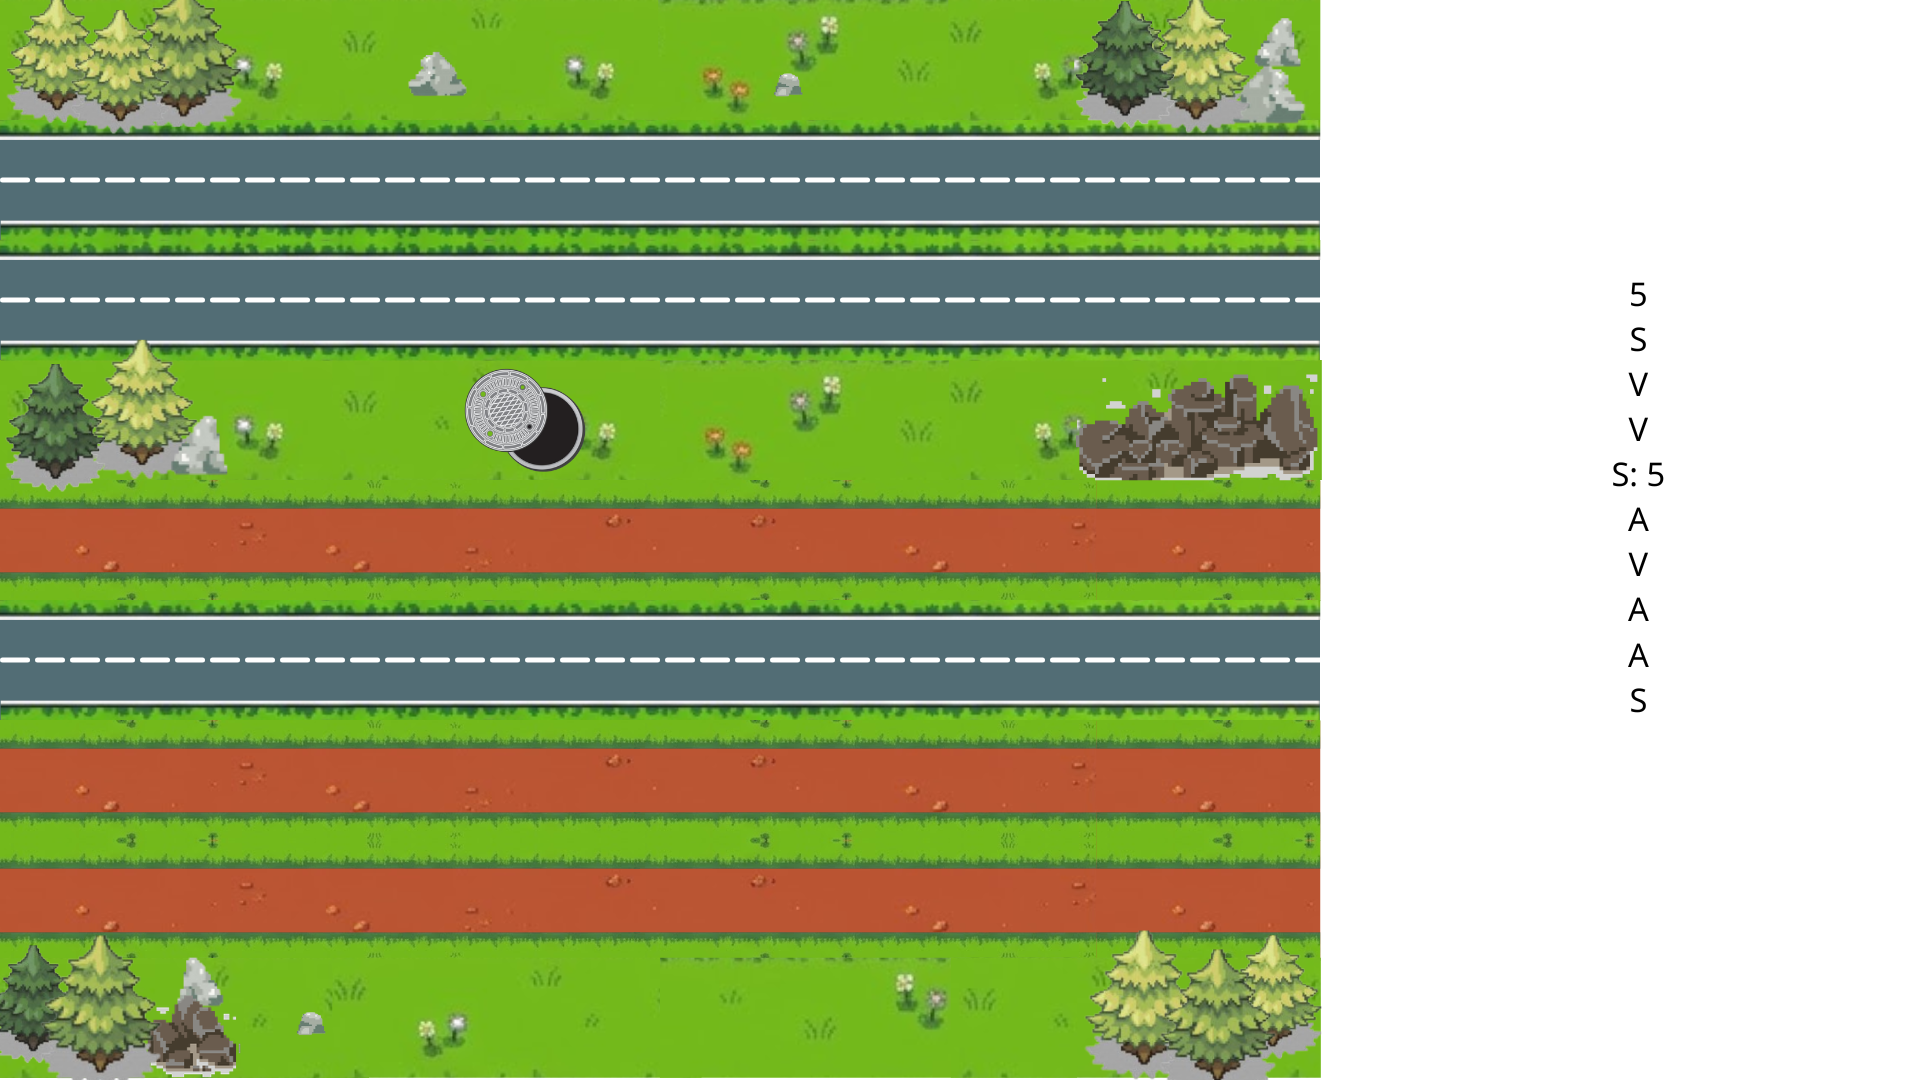
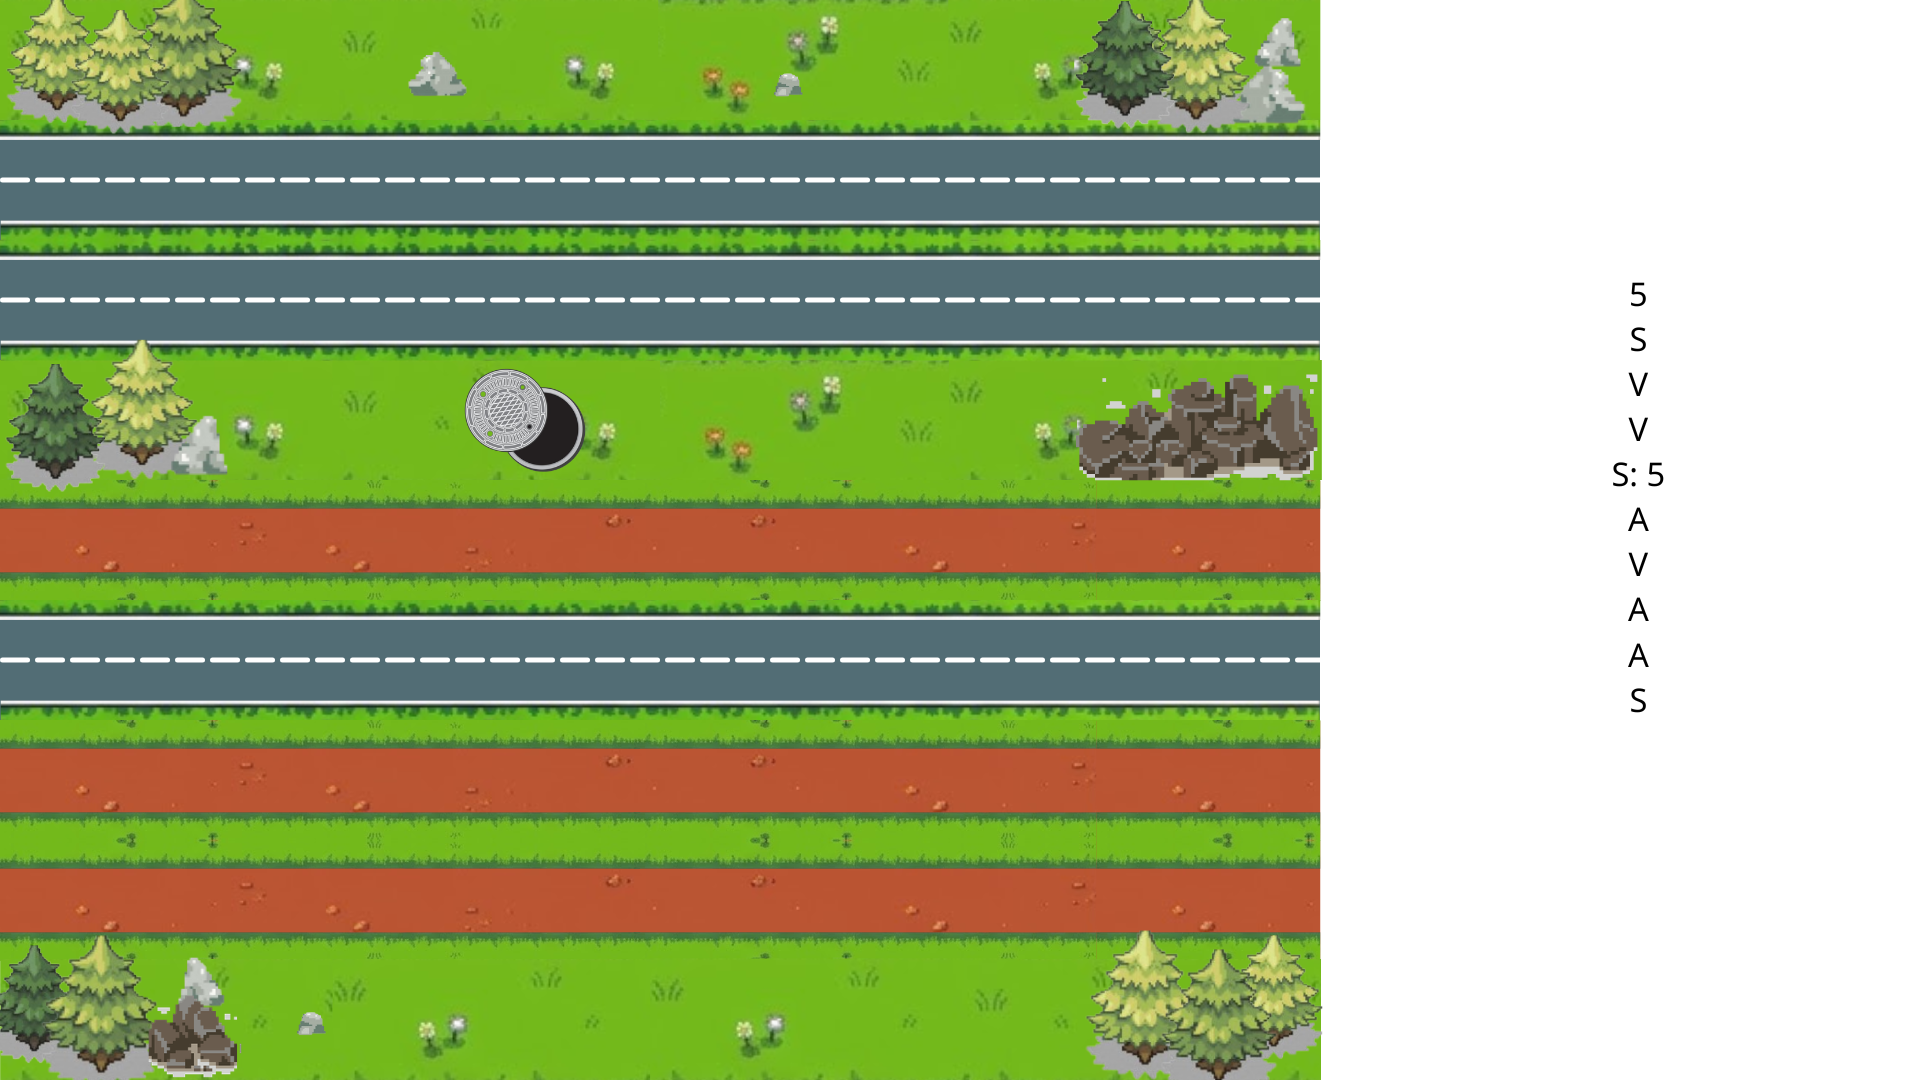
Modified Map and Generated 1-15 Map

diff --git a/game_crossing/src/EndlessMap.cpp b/game_crossing/src/EndlessMap.cpp
@@ -163,17 +163,36 @@ void EndlessMap::spawnBlockAbove()
     block.startY = m_nextEndY - m_blockHeight;
     block.lanes.fill(LaneType::Safe);
     block.manholeCols.fill(-1);
+
+    // --- ĐOẠN CODE CHỌN MAP NGẪU NHIÊN MỚI ---
+    // Khai báo danh sách 15 map dưới dạng chuỗi ký tự (bao gồm cả các map x.1)
+    static const std::vector<std::string> availableMaps = {
+        "1", "2", "3", "4", "5",
+        "6", "6.1", "7", "7.1", "8",
+        "8.1", "9", "9.1", "10", "10.1"
+    };
+
+    // Khởi tạo bộ sinh số ngẫu nhiên
     std::random_device rd;
     std::mt19937 localRng(rd());
-    const int randomMap = m_availableMapLevels.empty()
-        ? std::uniform_int_distribution<int>(1, 10)(localRng)
-        : m_availableMapLevels[std::uniform_int_distribution<std::size_t>(
-            0, m_availableMapLevels.size() - 1)(localRng)];
-    block.mapImageKey = "map_level_" + std::to_string(randomMap);
 
-    if (!loadMapFromFile(randomMap, block.lanes, block.manholeCols)) {
+    // Chọn ngẫu nhiên 1 index từ 0 đến 14 (tương ứng với 15 map)
+    std::uniform_int_distribution<std::size_t> dist(0, availableMaps.size() - 1);
+    std::string chosenMap = availableMaps[dist(localRng)];
+
+    // Gán tên file ảnh để hệ thống đồ họa vẽ đúng (ví dụ: map_level_6.1)
+    block.mapImageKey = "map_level_" + chosenMap;
+
+    // Tải cấu hình làn đường (Xe/Động vật/An toàn) và nắp cống từ file txt tương ứng
+    std::string txtFilePath = "assets/map/map_level_" + chosenMap + ".txt";
+
+    // Gọi hàm loadMapFromFile phiên bản nhận tham số std::string
+    if (!loadMapFromFile(txtFilePath, block.lanes, block.manholeCols)) {
+        // Nếu không tìm thấy file txt, sinh cấu hình an toàn mặc định để không crash game
         block.lanes = generateLaneLayout(block.blockID * 2654435761u, block.blockID == 0);
     }
+    // -----------------------------------------
+
     m_nextEndY = block.startY;
     m_blocks.push_front(block);
 }
